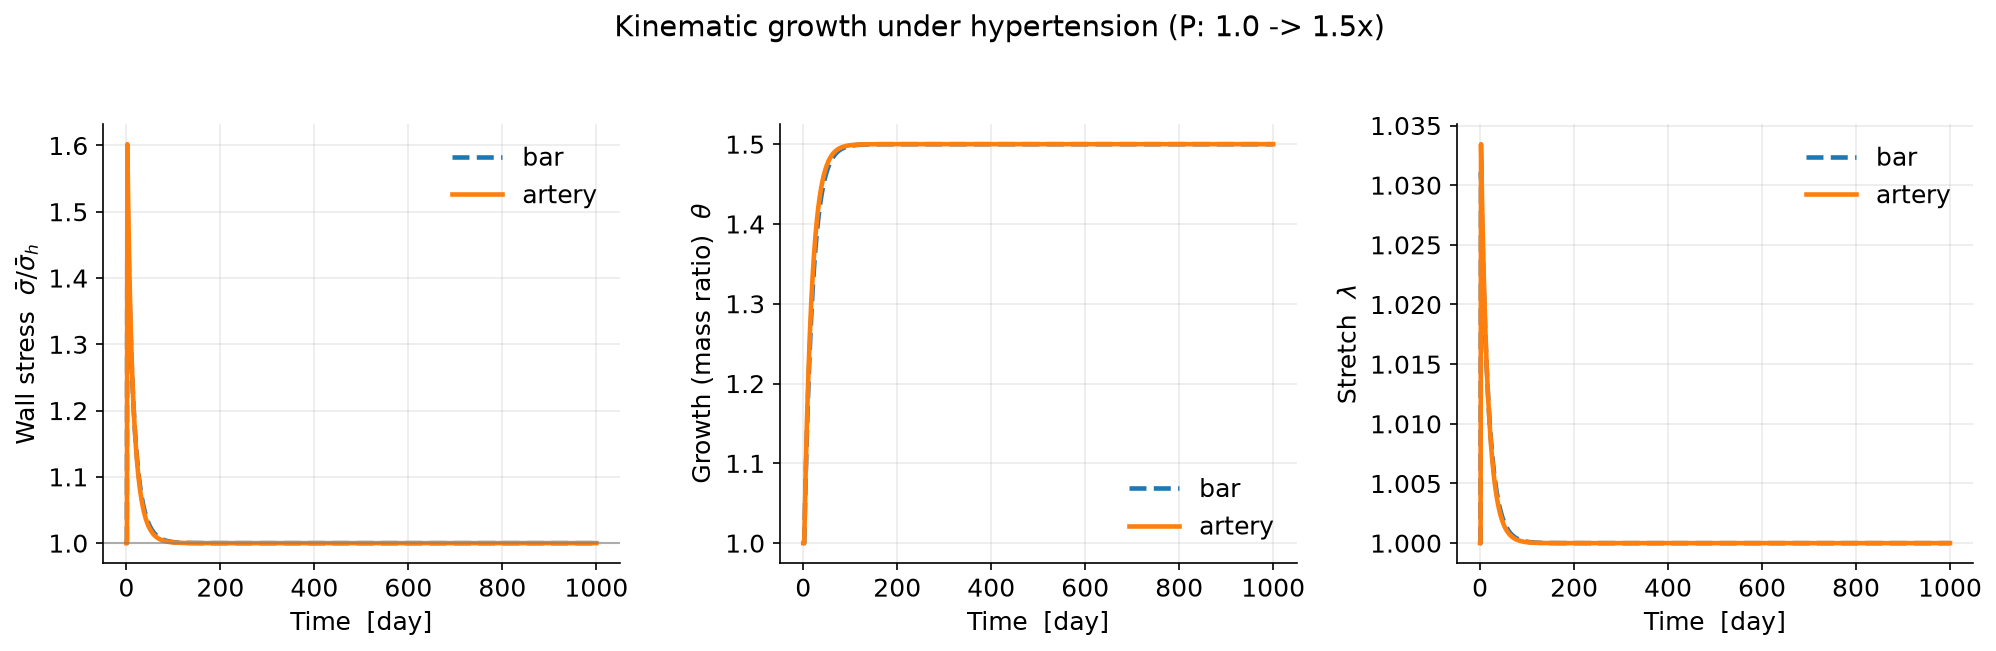
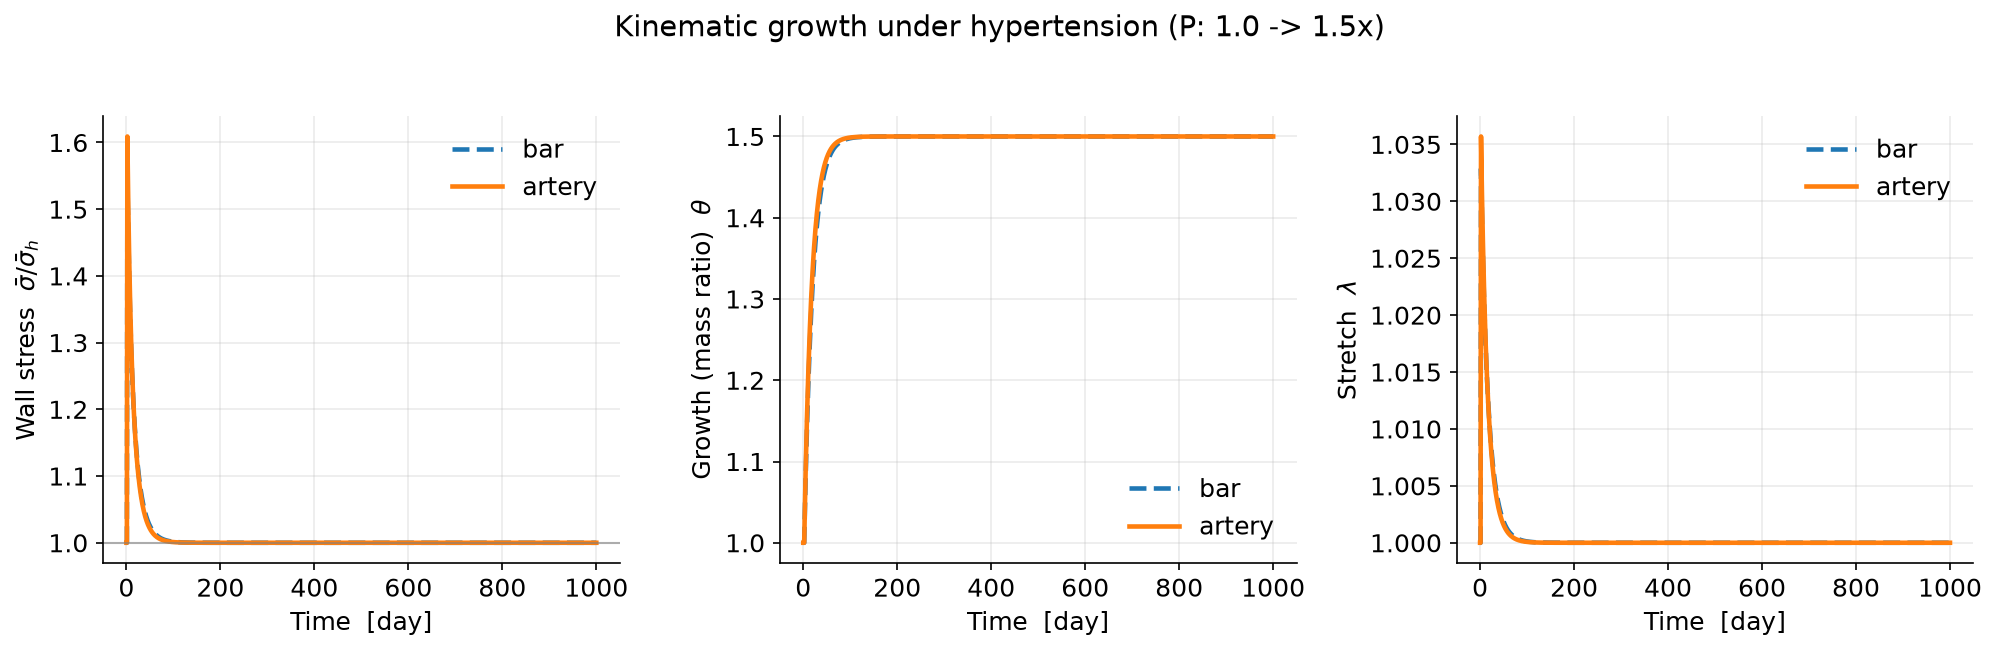
kinematic growth as a single material; +thickness panel; full-CMM colour
- Kinematic growth is now a genuine SINGLE homogeneous material: no constituents,
  no mass fractions, no per-constituent stress. It carries the homeostatic wall
  stress sigma_h = P_h R/H with a single stiffening law calibrated once to the
  tissue; the elastin-loss insult maps to an equivalent weakening of that one
  material. Its video shows a single wall stress sigma/sigma_h (not the borrowed
  per-constituent stresses).
- Add a thickness-ratio panel to the individual-theory videos (insult +
  stress/wall-stress + mass + radius + thickness).
- Full CMM drawn in green (black is now used for the insult).

Self-check passes; figures and videos regenerated.

diff --git a/src/gr/kinematic_growth.py b/src/gr/kinematic_growth.py
@@ -4,47 +4,45 @@ Theory 1 of 4 — KINEMATIC GROWTH  (Rodriguez, Hoger & McCulloch, 1994).
 -------------------------------------------------------------------------------
 The idea
 -------------------------------------------------------------------------------
-Postulate a multiplicative split of the deformation gradient into an elastic part
-and a stress-free **growth** part:
+Kinematic growth treats the wall as a **single homogeneous material** — there are
+no constituents, no mass fractions, no turnover and no per-constituent natural
+configurations.  That is the whole point (and the limitation) of the theory: it
+is the simplest continuum description of growth, to be contrasted with the
+constrained-mixture theories that *do* resolve constituents.
 
-        F  =  Fe . Fg                                                     (KG1)
+Split the (scalar) deformation gradient into an elastic and a stress-free
+**growth** part,
 
-Only ``Fe`` (grown state -> current state) stores energy and produces stress;
-``Fg`` (reference -> grown state) is a stress-free change of the natural volume —
-it *is* the growth.  For an artery, growth is **anisotropic thickening**: the
-wall grows in the radial direction (adding material through the thickness) while
-the circumferential elastic stretch of the material is unchanged by growth.  We
-capture this with a single scalar thickening variable ``theta`` (= the mass
-ratio; a transversely isotropic growth tensor Fg = I + (theta-1) e_r (x) e_r):
+        F  =  Fe . Fg ,                                                   (KG1)
 
-        mass ratio  M/M_0 = theta,     constituent stretch = G^k * lambda   (KG2)
+with only ``Fe`` carrying stress.  For an artery, growth is anisotropic
+**thickening**: the wall grows radially (a single thickening variable ``theta``,
+= the mass ratio M/M_0), which does not change the circumferential elastic
+stretch ``lambda``.
 
-where ``lambda`` is the (circumferential) tissue stretch and G^k the deposition
-prestretch (at homeostasis theta = 1, lambda = 1, so the constituent sits at G^k,
-giving sigma_h^k).  Crucially the whole mixture shares one growth variable — there
-is **no** individual constituent turnover or remodeling of natural configurations.
+The single material carries the homeostatic wall stress ``sigma_h = P_h R / H``
+(a tissue-level quantity from the Laplace balance, not built from constituents) at
+the homeostatic state (lambda = 1).  Its incremental response is a single
+stiffening law calibrated to the tissue's homeostatic stiffness ``b``:
 
-Growth is driven to null the tissue-stress deviation from the set-point (a
-first-order form of the classic stress-dependent growth law; production taken
-proportional to current mass so that theta can settle anywhere):
+        sigma(lambda) = s * sigma_h * exp[ b (lambda - 1) ]              (KG2)
 
-        d(theta)/dt = k_g * theta * ( sigma_bar / sigma_bar_h - 1 )        (KG3)
+Here ``s <= 1`` is a damage factor: the elastin-loss (aneurysm) insult is
+represented, for this single material, as an equivalent loss of load-bearing
+capacity (a single number), since a one-material theory has no elastin to remove.
+
+Growth is driven to null the wall-stress deviation from the set-point (a
+first-order stress-dependent growth law; production proportional to current mass):
+
+        d(theta)/dt = k_g * theta * ( sigma / sigma_h - 1 )              (KG3)
 
 -------------------------------------------------------------------------------
 What to learn (docs/03_kinematic_growth.md)
 -------------------------------------------------------------------------------
-The set-point sigma_bar_h is *prescribed*: wherever growth settles, it settles at
-homeostasis **by construction**.  The only two outcomes are:
-
-  * it converges to the prescribed homeostatic stress (a stable fixed point
-    exists), **or**
-  * it grows without bound (no stable fixed point).
-
-Which one occurs is set by the mechanical feedback — the exponent in the
-required-stress law (``gr.geometry``): the bar (exponent 1) is always
-self-limiting; the artery (exponent 2, Laplace) can lose stability for a strong
-enough insult.  But kinematic growth cannot *predict* mechanobiological stability
-from tissue turnover — that is what the mixture theories add.
+The set-point ``sigma_h`` is *prescribed*: growth restores the homeostatic wall
+stress **by construction** (or runs away).  But because it is one material,
+kinematic growth cannot resolve which constituent carries what, nor remodel them
+individually — exactly the information the constrained-mixture theories add.
 """
 from __future__ import annotations
 
@@ -59,81 +57,78 @@ def simulate(
     geom: Geometry,
     insult: Insult,
     *,
-    k_g: float = 0.05,        # growth-rate gain [1/day], Eq. (KG3)
-    t_end: float = 2000.0,    # [day]
-    dt: float = 1.0,          # [day]
-    lam_runaway: float = 8.0,  # stop if the tissue dilates past this stretch
+    k_g: float = 0.05,               # growth-rate gain [1/day], Eq. (KG3)
+    tissue_stiffness: float | None = None,   # b in (KG2); None -> calibrate to the tissue
+    t_end: float = 2000.0,           # [day]
+    dt: float = 1.0,                 # [day]
+    lam_runaway: float = 8.0,
 ) -> Result:
-    """Integrate kinematic growth for the given loading and insult."""
+    """Integrate kinematic growth (single material) for the given loading."""
     model = geom.model
-    cons = model.constituents
+    sigma_h = model.sigma_bar_h       # homeostatic wall stress P_h R / H (tissue-level)
 
-    def sigma_bar(lam: float, elastin_frac: float) -> float:
-        """Mixture Cauchy stress at tissue stretch ``lam``, Eq. (KG2) + rule of mixtures.
+    # --- a single equivalent material, calibrated ONCE to the tissue ---------
+    # (the constituents define what the tissue *is* — its homeostatic stress and
+    #  stiffness — but they are not part of the kinematic theory itself.)
+    def _tissue_homeostatic(lam: float) -> float:
+        return sum(c.phi0 * c.law.stress_cauchy(c.G * lam) for c in model.constituents)
 
-        Growth is radial (thickening) and does not enter the circumferential
-        elastic stretch, so the constituent stretch is simply G^k * lambda.
-        """
-        total = 0.0
-        for c in cons:
-            phi = c.phi0 * (elastin_frac if c.name == "elastin" else 1.0)
-            total += phi * c.law.stress_cauchy(c.G * lam)
-        return total
+    if tissue_stiffness is None:
+        eps = 1e-4
+        b = (_tissue_homeostatic(1 + eps) - _tissue_homeostatic(1 - eps)) / (2 * eps) / sigma_h
+    else:
+        b = tissue_stiffness
+    elastin = model.by_name("elastin")
+    f_elastin = elastin.phi0 * elastin.sigma_h / sigma_h    # elastin's homeostatic stress share
+
+    def sigma_tissue(lam: float, s: float) -> float:
+        return s * sigma_h * np.exp(b * (lam - 1.0))
 
     nsteps = int(round(t_end / dt))
     t = np.zeros(nsteps + 1)
-    theta = 1.0                      # thickening growth variable; homeostasis: theta = 1
+    theta = 1.0                       # thickening growth variable; homeostasis: theta = 1
     out = {k: np.zeros(nsteps + 1) for k in ("lam", "mass", "sigma", "r", "h")}
-    stress_hist = {c.name: np.zeros(nsteps + 1) for c in cons}
     diverged = False
 
     for i in range(nsteps + 1):
         ti = i * dt
         t[i] = ti
         gamma = insult.pressure(model.P_h, ti) / model.P_h
-        ef = insult.elastin_fraction(ti)
+        # elastin loss -> equivalent weakening of the single material
+        s_eff = 1.0 - (1.0 - insult.elastin_fraction(ti)) * f_elastin
 
-        # (i) mechanical equilibrium: solve sigma_bar(lam) = required(lam), mass = theta
+        # (i) mechanical equilibrium: sigma_tissue(lam) = required(lam), mass = theta
         lam = geom.equilibrium_stretch(
-            lambda L: sigma_bar(L, ef), mass_ratio=theta, load_factor=gamma
+            lambda L: sigma_tissue(L, s_eff), mass_ratio=theta, load_factor=gamma
         )
         if lam is None or lam > lam_runaway:
             diverged = True
             for key in out:
                 out[key][i:] = out[key][i - 1] if i > 0 else np.nan
-            for nm in stress_hist:
-                stress_hist[nm][i:] = stress_hist[nm][i - 1] if i > 0 else np.nan
             t[i:] = np.linspace(ti, t_end, nsteps + 1 - i)
             break
 
-        sig = sigma_bar(lam, ef)
+        sig = sigma_tissue(lam, s_eff)
         out["lam"][i] = lam
         out["mass"][i] = theta
         out["sigma"][i] = sig
         out["r"][i] = geom.radius(lam)
         out["h"][i] = geom.thickness(lam, theta)
-        # per-constituent stress: all share the elastic stretch G^k*lambda (no
-        # constituent remodeling), so sigma^k does NOT return to sigma_h^k unless
-        # lambda -> 1 -- the visible signature of kinematic growth's limitation.
-        for c in cons:
-            stress_hist[c.name][i] = c.law.stress_cauchy(c.G * lam) / c.sigma_h
 
         # (ii) advance growth one step, Eq. (KG3)
         if i < nsteps:
-            theta = theta + dt * k_g * theta * (sig / model.sigma_bar_h - 1.0)
-            theta = max(theta, 1e-6)
+            theta = max(theta + dt * k_g * theta * (sig / sigma_h - 1.0), 1e-6)
 
     return Result(
         theory="kinematic growth",
         setting=geom.name,
-        sigma_h=model.sigma_bar_h,
+        sigma_h=sigma_h,
         t=t,
         lam=out["lam"],
         mass=out["mass"],
         sigma=out["sigma"],
         radius=out["r"],
         thickness=out["h"],
-        masses={"grown_volume": out["mass"]},
-        stresses=stress_hist,
+        masses={"grown_volume": out["mass"]},   # single material: one grown volume, no constituents
         diverged=diverged,
     )

diff --git a/src/gr/animation.py b/src/gr/animation.py
@@ -36,6 +36,7 @@ STANFORD_RED = "#8C1515"
 # Capitalised, descriptive y-axis labels (no plot titles — the label is enough).
 # Single-valued quantities (one line per theory):
 QUANTITIES = {
+    "sigma_norm": (r"Wall stress  $\sigma/\sigma_h$", lambda r: r.sigma_norm),  # single material
     "mass": (r"Mass ratio  $M/M_0$", lambda r: r.mass),
     "lam": (r"Stretch  $\lambda$", lambda r: r.lam),
     "radius": (r"Radius ratio  $a/a_0$", lambda r: r.radius),        # normalised in animate()
@@ -121,7 +122,7 @@ def animate(
     has_p = insult.pressure_factor != 1.0
     has_e = insult.elastin_surviving != 1.0
 
-    REF = {"mass": 1.0, "lam": 1.0, "radius": 1.0, "thickness": 1.0}   # all ratios -> 1
+    REF = {"sigma_norm": 1.0, "mass": 1.0, "lam": 1.0, "radius": 1.0, "thickness": 1.0}
     norm = {"radius": R0, "thickness": H0}                             # a/a_0, h/h_0
     is_artery = results[0].setting == "artery"
 
@@ -206,8 +207,8 @@ def animate(
                 lines[q].append((add_curve(ax, y, label=r.theory, **STYLE.get(r.theory, {})), y))
             ax.axhline(REF[q], color="gray", lw=1, ls=":", alpha=0.8)
             if equilibrium is not None and getattr(equilibrium, "exists", False):
-                val = {"mass": equilibrium.mass, "lam": equilibrium.lam,
-                       "radius": equilibrium.radius / R0,
+                val = {"sigma_norm": equilibrium.sigma_norm, "mass": equilibrium.mass,
+                       "lam": equilibrium.lam, "radius": equilibrium.radius / R0,
                        "thickness": equilibrium.thickness / H0}.get(q)
                 if val is not None and np.isfinite(val):
                     ax.axhline(val, **STYLE["equilibrated CMM"], alpha=0.9,

diff --git a/solutions/make_all_videos.py b/solutions/make_all_videos.py
@@ -43,7 +43,7 @@ def video_kinematic():
     """Twin of fig02 — kinematic growth adapting to hypertension (artery)."""
     art = artery(SEMINAR_MODEL)
     r = kinematic_growth.simulate(art, HYPERTENSION, t_end=1000)
-    fig, anim = animate([r], HYPERTENSION, art, quantities=("stress_k", "mass", "radius"),
+    fig, anim = animate([r], HYPERTENSION, art, quantities=("sigma_norm", "mass", "radius", "thickness"),
                         title="Kinematic growth — hypertension")
     _save(anim, "video02_kinematic_growth")
 
@@ -52,7 +52,7 @@ def video_cmm_turnover():
     """Twin of fig03 — full CMM turnover under hypertension (per constituent)."""
     art = artery(SEMINAR_MODEL)
     r = constrained_mixture.simulate(art, HYPERTENSION, t_end=1200, dt=2.0)
-    fig, anim = animate([r], HYPERTENSION, art, quantities=("stress_k", "mass_k", "radius"),
+    fig, anim = animate([r], HYPERTENSION, art, quantities=("stress_k", "mass_k", "radius", "thickness"),
                         title="Full constrained mixture — turnover under hypertension")
     _save(anim, "video03_constrained_mixture")
 
@@ -80,7 +80,7 @@ def video_runaway():
     art = artery(SEMINAR_MODEL)
     severe = Insult(elastin_surviving=0.03, t_on=1.0, ramp=10.0)
     r = homogenized_cmm.simulate(art, severe, t_end=5000)
-    fig, anim = animate([r], severe, art, quantities=("stress_k", "mass_k", "radius"),
+    fig, anim = animate([r], severe, art, quantities=("stress_k", "mass_k", "radius", "thickness"),
                         title="Runaway aneurysm (elastin → 3%, no equilibrium)")
     _save(anim, "video06_runaway_aneurysm")
 

diff --git a/src/gr/plotting.py b/src/gr/plotting.py
@@ -19,7 +19,7 @@ from .history import Result
 # One fixed colour / style per theory, used everywhere.
 STYLE = {
     "kinematic growth": dict(color="#4C72B0", ls="-"),
-    "full CMM": dict(color="#000000", ls="-"),
+    "full CMM": dict(color="#2E7D32", ls="-"),          # green (black is used for the insult)
     "homogenized CMM": dict(color="#DD8452", ls="--"),
     "equilibrated CMM": dict(color="#C44E52", ls=":"),
 }

diff --git a/docs/videos/README.md b/docs/videos/README.md
@@ -11,14 +11,16 @@ The vessel is drawn with a **light-gray current wall** about the mid-wall radius
 and a bold **red reference outline** (fixed), so the change from the reference
 configuration is easy to see. The response panels depend on the video:
 
-- **single-theory** videos plot the **per-constituent** stress
-  $\sigma^k/\sigma_h^k$ and mass $M^k/M_0$ — each constituent has its own
-  homeostatic stress, so you see collagen and smooth muscle **remodel back** to
-  $\sigma_h^k$ while **elastin cannot** (its stress stays elevated, and in the
-  aneurysm case runs away — the mechanistic signature of the instability);
-- **comparison** videos plot the geometry (mid-wall radius, wall thickness) and
-  total mass across the theories, with the reference and equilibrated targets
-  marked.
+- **single-theory** constrained-mixture videos plot the **per-constituent** stress
+  $\sigma^k/\sigma_h^k$ and mass $M^k/M_0$ (plus the radius and thickness ratios)
+  — each constituent has its own homeostatic stress, so you see collagen and
+  smooth muscle **remodel back** to $\sigma_h^k$ while **elastin cannot** (its
+  stress stays elevated, and in the aneurysm case runs away — the mechanistic
+  signature of the instability). **Kinematic growth is a single material**, so its
+  video shows one **wall stress** $\sigma/\sigma_h$ instead (no constituents);
+- **comparison** videos plot the geometry (radius ratio $a/a_0$, thickness ratio
+  $h/h_0$) and mass ratio $M/M_0$ across the theories, with the reference and
+  equilibrated targets marked.
 
 A single shared legend sits outside the panels.
 